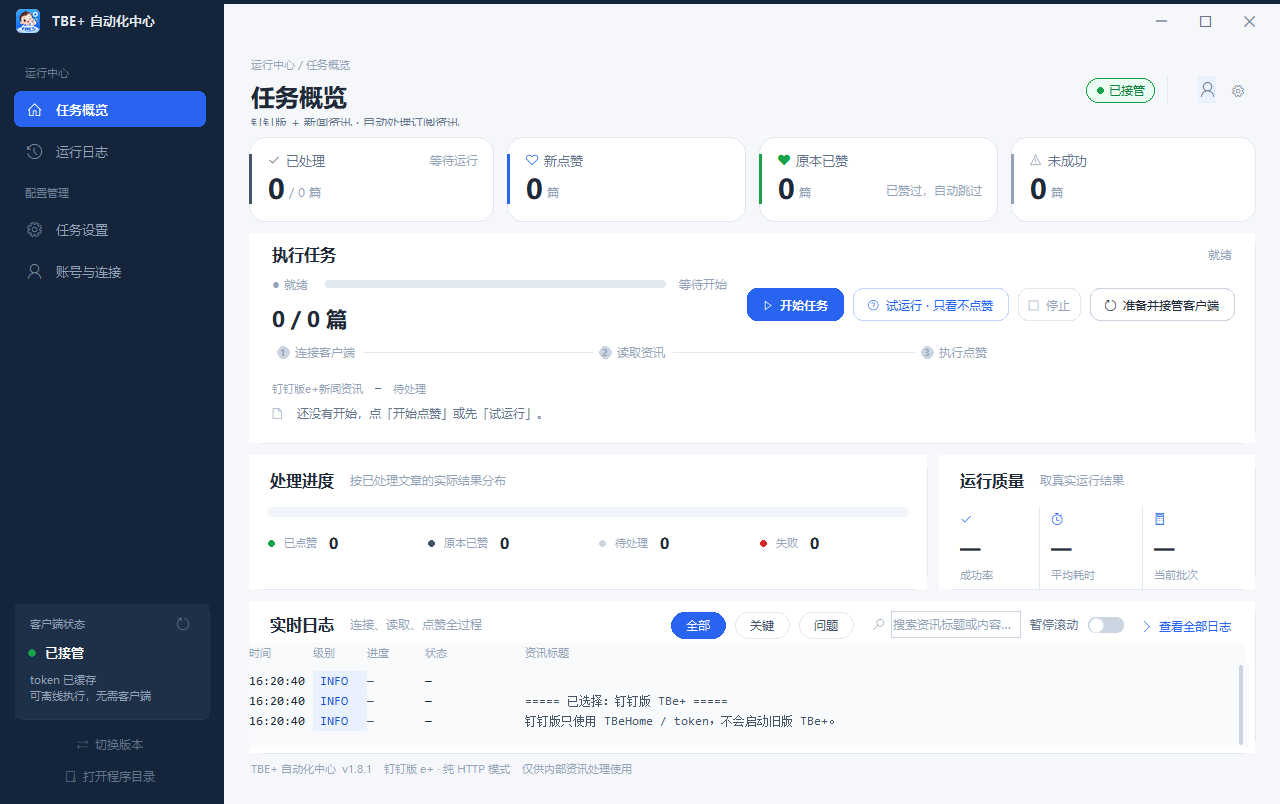
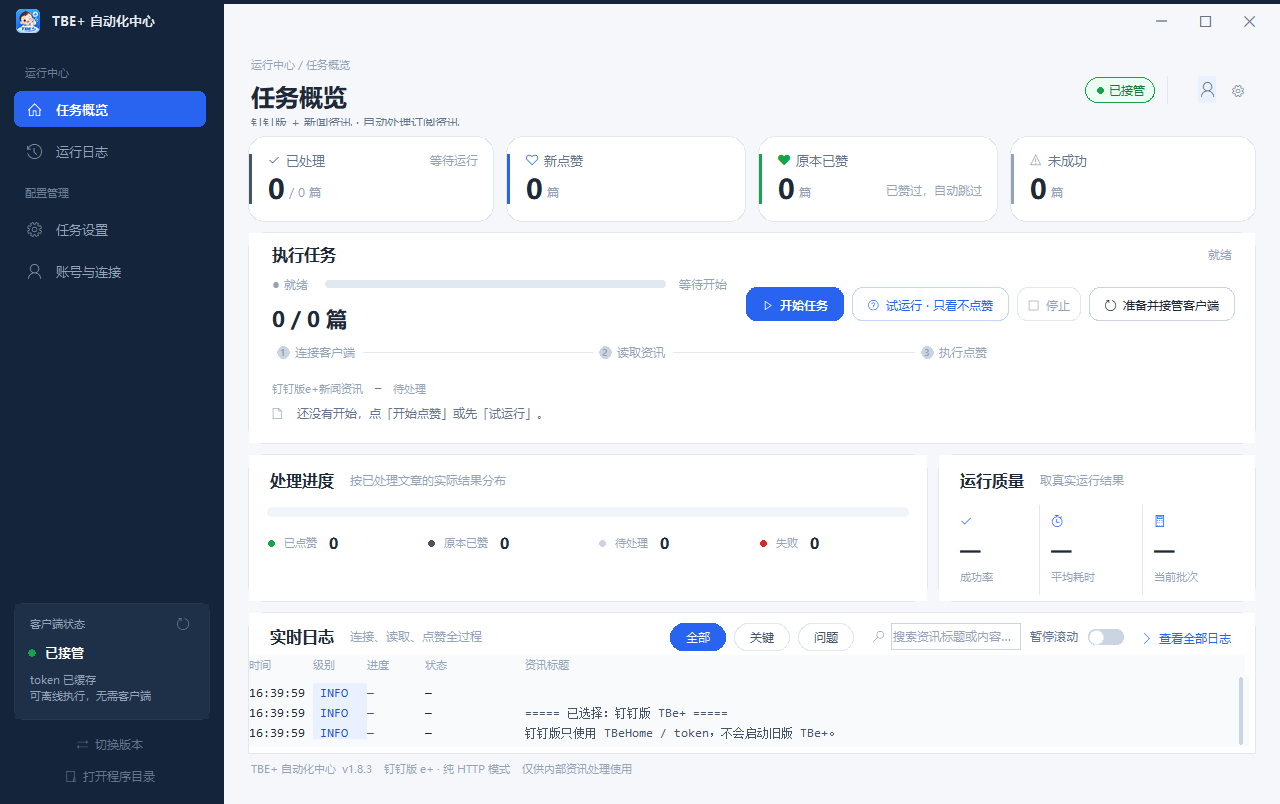
fix(ui): 切页不再重排白屏 + 运行质量遮挡 + 圆角描边（1.8.3）
切页：
- 4 个页面构建时一次性 place 常驻叠放，切换只 lift()，不再
  place_forget / 重新布局
- 原来 任务设置→任务概览 重排要 190ms（视觉上就是卡白屏），
  现在双向 11–19ms
- 去掉切页位移动画（页面叠放后位移会露出下层页）

运行质量：
- mid 行高 136 → 148，qrow 下边距改为 (10, 6)，
  底部标签不再贴着卡片圆角边被裁

圆角：
- round_rect 的 1px 边框改成"外扩 1px 实心多边形打底 + 内层填充"，
  不再用 Tk outline 的毛边线；圆弧仍为每角 18 段

版本 1.8.3；补 release_notes_1.8.3.md；更新截图与 README

diff --git a/tbeplus/widgets.py b/tbeplus/widgets.py
@@ -55,23 +55,40 @@ def measure(spec: tuple, text: str) -> int:
 def round_rect(canvas: tk.Canvas, x1, y1, x2, y2, r, **kw):
     """在画布上画圆角矩形。
 
-    Tk Canvas 没有抗锯齿，能做的就是把圆弧切得足够细：每角 18 段（原来 6 段）
-    后，等腰折线的台阶在 1x / 1.25x / 1.5x 下基本看不出来。真正的 AA 需要
-    位图或系统级圆角，见 README 的说明。
+    Tk Canvas 没有抗锯齿，能做的是两件事：
+    1. 圆弧切得足够细（每角 18 段，原来 6 段）；
+    2. 1px 边框不用 Tk 的 ``outline``（那是最"毛"的 1px 线算法），改成
+       "外扩 1px 的实心多边形打底 + 内层填充"叠出边框，边缘干净很多。
+    真正的 AA 仍需要位图或系统级圆角。
     """
     r = max(0.0, min(float(r), (x2 - x1) / 2, (y2 - y1) / 2))
-    pts: list[float] = []
-    steps = 18
-    for cx, cy, start in (
-        (x2 - r, y1 + r, -90),
-        (x2 - r, y2 - r, 0),
-        (x1 + r, y2 - r, 90),
-        (x1 + r, y1 + r, 180),
-    ):
-        for i in range(steps + 1):
-            a = math.radians(start + 90 * i / steps)
-            pts.extend((cx + r * math.cos(a), cy + r * math.sin(a)))
-    return canvas.create_polygon(pts, **kw)
+
+    def _pts(a, b, c, d, rad):
+        out: list[float] = []
+        steps = 18
+        for cx, cy, start in (
+            (c - rad, b + rad, -90),
+            (c - rad, d - rad, 0),
+            (a + rad, d - rad, 90),
+            (a + rad, b + rad, 180),
+        ):
+            for i in range(steps + 1):
+                ang = math.radians(start + 90 * i / steps)
+                out.extend((cx + rad * math.cos(ang),
+                            cy + rad * math.sin(ang)))
+        return out
+
+    outline = kw.pop("outline", "")
+    width = kw.pop("width", 0)
+    fill = kw.get("fill", "")
+    if outline and fill not in ("", None) and (width or 0) <= 1 \
+            and "stipple" not in kw:
+        canvas.create_polygon(_pts(x1 - 1, y1 - 1, x2 + 1, y2 + 1, r + 1),
+                              fill=outline, outline="")
+        return canvas.create_polygon(_pts(x1, y1, x2, y2, r),
+                                     outline="", **kw)
+    return canvas.create_polygon(_pts(x1, y1, x2, y2, r),
+                                 outline=outline, width=width, **kw)
 
 
 def blend(color: str, other: str, ratio: float) -> str:

diff --git a/tbeplus/ui.py b/tbeplus/ui.py
@@ -700,19 +700,17 @@ class App:
             frame = tk.Frame(host, bg=C["bg"])
             self.pages[key] = frame
             builder(frame)
+            # 所有页面一次性就位、叠在一起；切换时只 lift()。
+            # 避免每次切页重新 place / 重新布局（首页控件多，重排要 190ms 左右，
+            # 表现出来就是"卡白屏"）。
+            frame.place(x=0, y=0, relwidth=1, relheight=1)
 
     def _show_page(self, key: str, animate: bool = True) -> None:
         self.page = key
         target = self.pages.get(key)
-        # 先让目标页就位并置顶，再隐藏其它页：避免切换瞬间没有页面覆盖而露出底色。
+        # 页面常驻叠放，切换只做 lift()，不重新布局 → 无白屏、无卡顿。
         if target is not None:
-            target.place(x=0, y=0, relwidth=1, relheight=1)
             target.lift()
-        for name, frame in self.pages.items():
-            if name != key:
-                frame.place_forget()
-        if target is not None and animate:
-            motion.slide_in(target)
         for name, item in self.nav.items():
             item.set_active(name == key)
         self.title_var.set(PAGE_TITLES[key])
@@ -909,7 +907,7 @@ class App:
         panel.fit(extra=4)
 
         # ---------------- 处理进度 + 运行质量 ----------------
-        mid = tk.Frame(f, bg=C["bg"], height=136)
+        mid = tk.Frame(f, bg=C["bg"], height=148)
         mid.pack(fill=X, pady=(10, 0))
         mid.pack_propagate(False)
         self.mid_row = mid
@@ -949,7 +947,7 @@ class App:
         b2 = p2.body
         self._card_head(b2, "运行质量", "取真实运行结果", pad=(18, 12))
         qrow = tk.Frame(b2, bg=C["surface"])
-        qrow.pack(fill=BOTH, expand=True, padx=18, pady=(12, 0))
+        qrow.pack(fill=BOTH, expand=True, padx=18, pady=(10, 6))
         self.quality_vars = {}
         for i, (key, label, glyph) in enumerate((
             ("rate", "成功率", "\uE73E"),

diff --git a/tbeplus/__init__.py b/tbeplus/__init__.py
@@ -9,5 +9,5 @@
     ui       图形界面
 """
 
-__version__ = "1.8.2"
+__version__ = "1.8.3"
 __all__ = ["config", "ws", "cdp", "client", "dingtalk", "engine", "ui", "motion"]

diff --git a/docs/release_notes_1.8.3.md b/docs/release_notes_1.8.3.md
@@ -1,0 +1,32 @@
+# 1.8.3 更新说明
+
+本次只改渲染与布局，业务逻辑未动。
+
+## 切页卡白屏（重点）
+
+- **根因**：原来每次切页都 `place_forget()` 掉旧页、再 `place()` 新页。首页控件多
+  （4 张指标卡 + 执行控制台 + 处理进度/运行质量 + 实时日志表），重新 `place` 会让
+  Tk 把整页子控件重新布局，实测 **任务设置 → 任务概览 要 190ms**，这段时间窗口是空的，
+  看起来就是"卡白屏"。
+- **修复**：4 个页面在构建时一次性 `place` 到同一位置**常驻叠放**，切换只做 `lift()`
+  把目标页抬到最上层，不再重新布局、不再销毁/重建控件。
+- 实测（纯切换，含 `update_idletasks`）：任务概览 ↔ 任务设置 双向都在 **11–19ms**，
+  原来单向 190ms。切页不再有白屏，也没有 220ms 的位移动画。
+
+## 运行质量一栏被遮挡
+
+- **根因**：`mid` 行固定高 136px，右侧「运行质量」卡片 `fill=Y` 被锁在 136px，
+  卡片 body 只有 134px，而内容（标题 + 图标 + 数值 + 标签）底部正好压在 134px——
+  底部标签贴着卡片圆角边被裁掉。
+- **修复**：`mid` 行高 136 → 148，`qrow` 增加下边距（`pady=(10, 6)`），
+  实测卡片 body 146px、内容底部 140px，标签下方留出约 17px 空白。
+
+## 圆角边缘
+
+- 1px 边框不再用 Tk 的 `outline`（那是最"毛"的 1px 线算法），改成
+  **"外扩 1px 的实心多边形打底 + 内层填充"** 叠出边框，圆弧仍为每角 18 段。
+- 说明：Tkinter 的 Canvas 没有抗锯齿，无法像浏览器那样完全平滑；这已是纯 Tk
+  能做到的最好效果。真正的 AA 只能用预渲染位图（9-slice）实现，属于较大改造。
+
+安装包：`TBeAutoLike-1.8.3-win64.exe`（未签名，SmartScreen 提示时点
+「更多信息 → 仍要运行」）。

diff --git a/README.md b/README.md
@@ -1,6 +1,6 @@
 # liks jck tbe+
 
-**新闻点赞 1.8.2 版本** —— 一个自动给 TBe+ 新闻资讯点赞的小工具。
+**新闻点赞 1.8.3 版本** —— 一个自动给 TBe+ 新闻资讯点赞的小工具。
 
 把所选版本里每一篇还没点赞的文章都点上；已经点过的会自动跳过，不会重复点。
 
@@ -40,6 +40,11 @@
 最小化改成系统 `SW_MINIMIZE`、不再来回切 `overrideredirect`，并去掉启动
 整窗 `-alpha` 淡入——白闪与还原跳变消失。Tk 的 Canvas 没有抗锯齿、
 无边框窗口也拿不到 DWM 系统圆角，所以窗口四角仍是直角，这是技术栈限制。
+
+1.8.3 把 4 个页面常驻叠放、切换只 `lift()`（原来每次切页都重新 `place`，
+首页重排要 190ms，看着像卡白屏；现在双向约 11–19ms）；修了「运行质量」
+卡片底部标签被圆角裁掉；卡片/按钮的 1px 边框改成"填充环"叠法，
+圆角边缘更干净（Tk 无抗锯齿仍是硬限制）。
 
 ---
 
